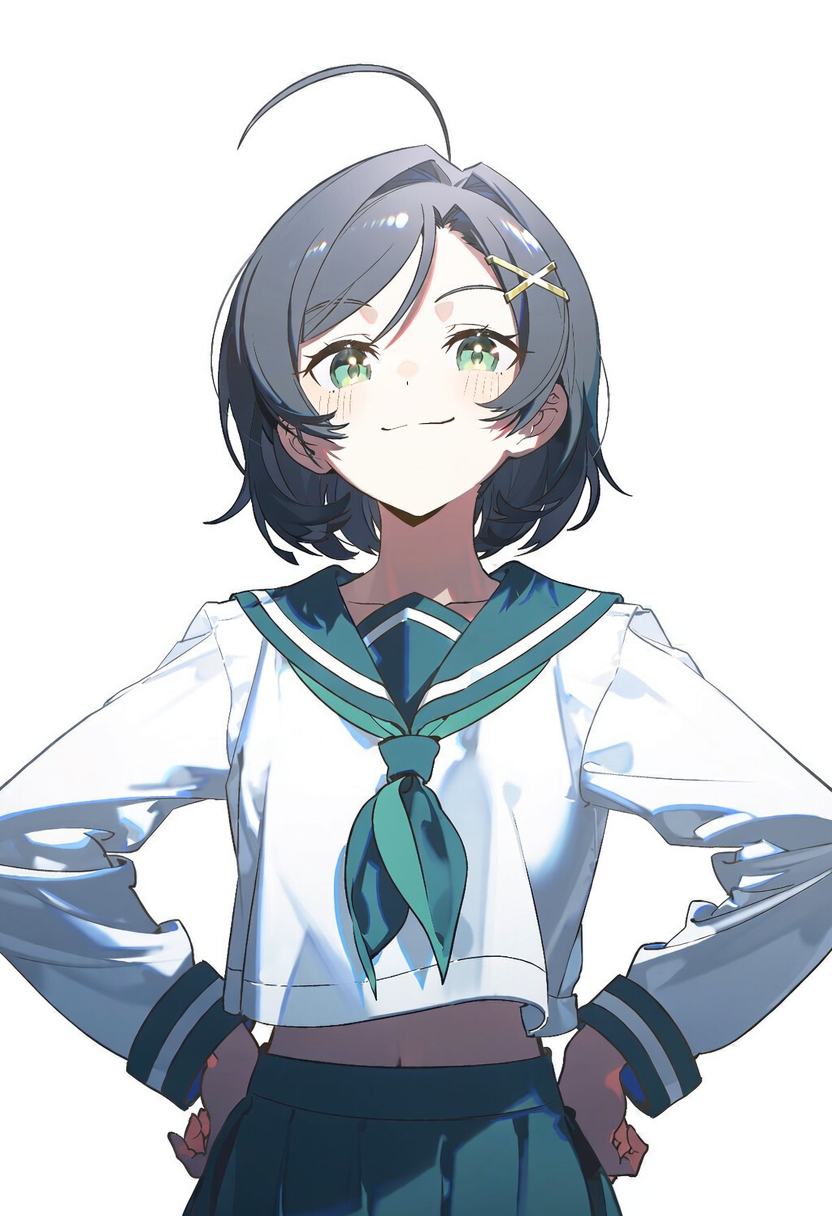
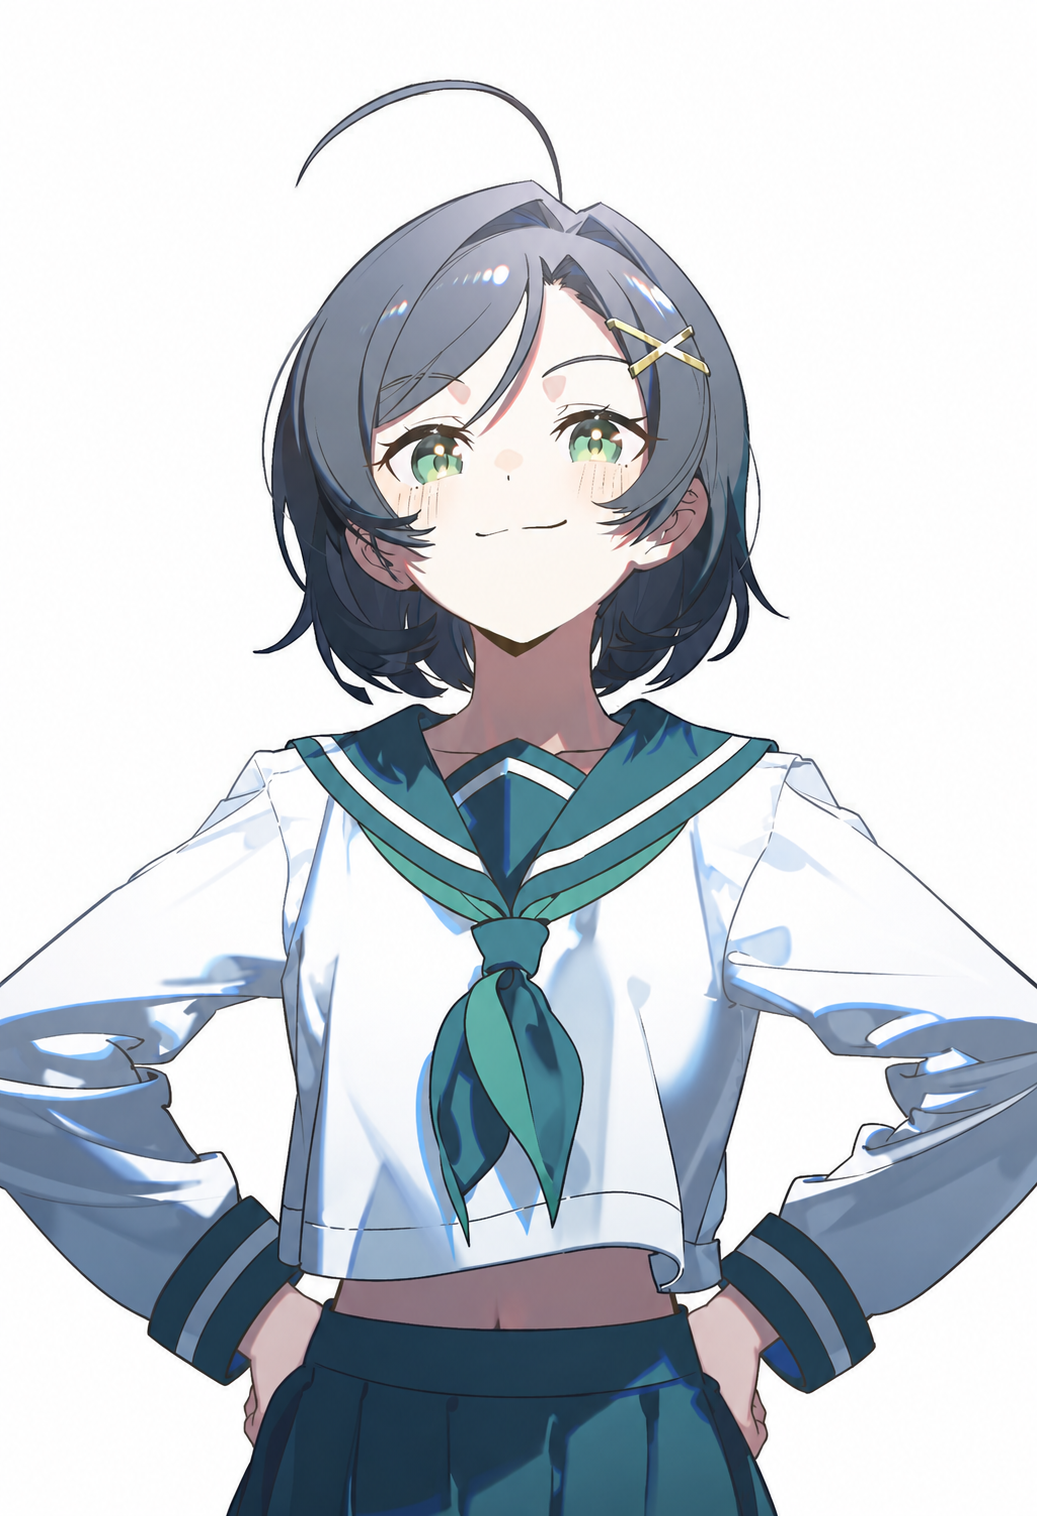
Update 比企谷小町 default portrait

diff --git a/images/portraits/oregairu/hikigaya-komachi/README.md b/images/portraits/oregairu/hikigaya-komachi/README.md
@@ -1,11 +1,18 @@
 # 比企谷小町 · 常规立绘
 
 - 当前文件：[default.png](default.png)。
-- 用户选定原图：`1girl, solo,__0.3__artist_letdie1414 __,_1.3__artist_ame (uten cancel), artist_r s-874527441.png`。
-- 尺寸：832 × 1216；大小：969,996 字节。
[1 lines of base64/hex data omitted]
-- PNG 模型记录：NovelAI Diffusion V5 0ADF9AB7。
-- 可读取的生成参数：seed 874527441；steps 28；scale 6.0；cfg_rescale 0.0；sampler k_euler_ancestral；noise_schedule karras。
+- 用户选定原图：`hikigaya-komachi-hands-repaired.png`。
+- 尺寸：1037 × 1516；大小：1,406,583 字节。
[1 lines of base64/hex data omitted]
+- PNG 模型记录：未知。
+- 可读取的生成参数：seed 未知；steps 未知；scale 未知；cfg_rescale 未知；sampler 未知；noise_schedule 未知。
 - 原图字节及内嵌数据完整保留，没有裁切、缩放、抠图或重新编码。
 - 当前默认形象的运行时引用以状态栏 portraitsSB 为准；不随剧情着装自动切换。
 - 图片选定不代替真实 SillyTavern 与实际设备显示验收。
+
+## 本次选定版本
+
+- 修复叉腰姿势中的双手和腕部衔接，利用袖口与腰侧自然遮挡部分手指。
+- 本图经 Codex 图像编辑生成并由用户确认；本次上传未再次裁剪、缩放或重绘。
+- 当前目录固定使用 default.png，旧版已被替换，不另保留旧图文件；Git 历史可回溯。
+- 编辑成稿未携带可读取的 NovelAI 参数，旧版参数不能作为当前修复版的复现参数。
